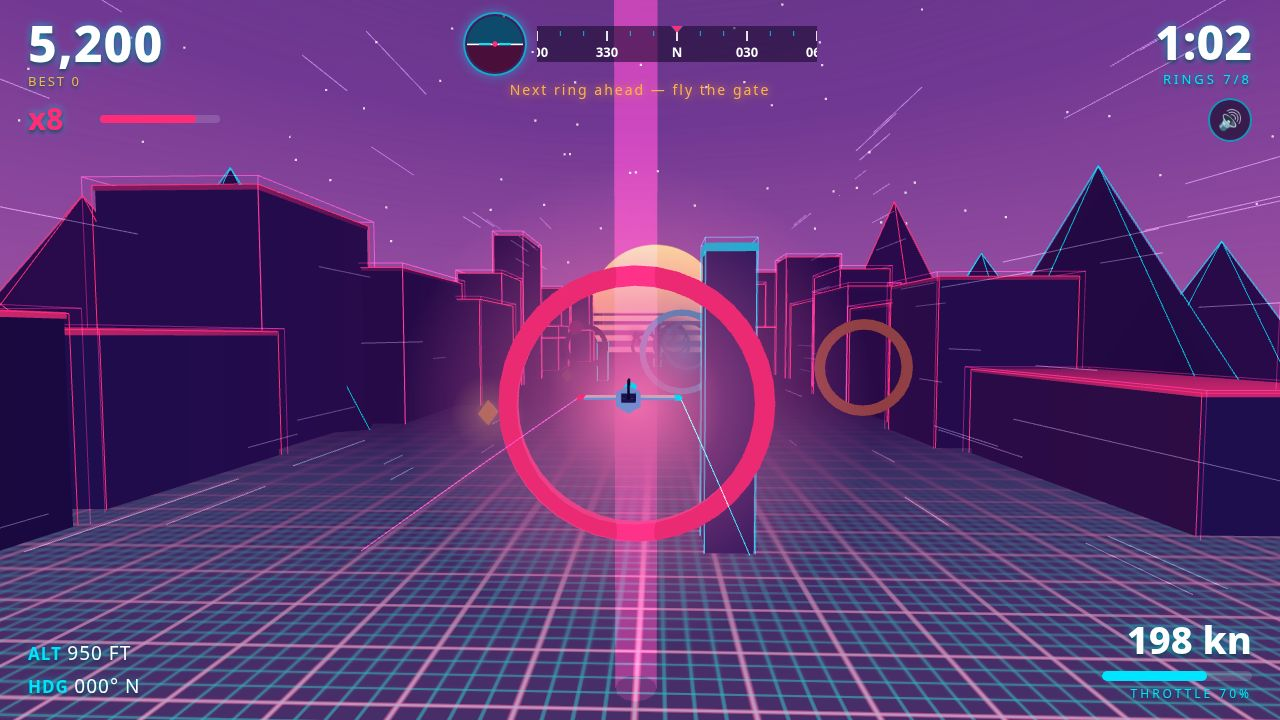
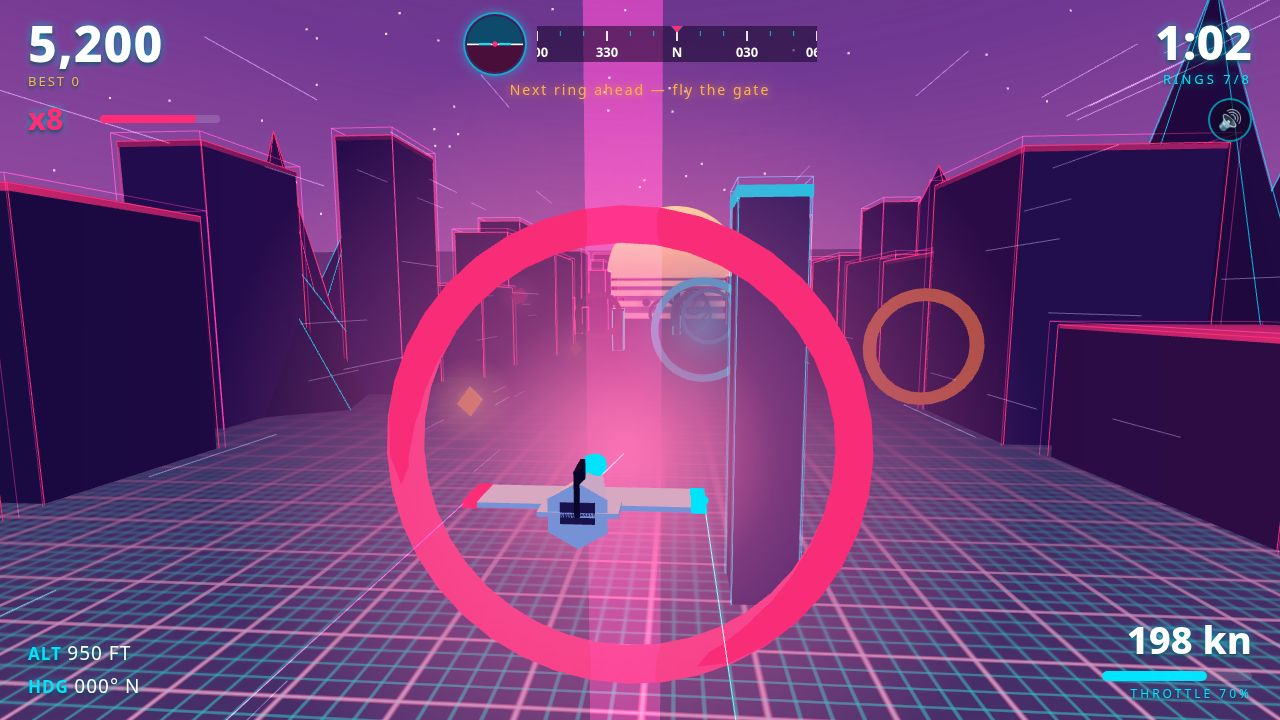
NEON RUSH hero re-stage: snap chase camera in ?shot= frames
The 9a3af2b hero regressed: _camPos starts at (0,24,14), ~630 units
from a hero staged at z=-616, and at headless frame rates the damped
chase camera never catches up before the screenshot, so the ring read
as a faint ~100px circle around the sun and the jet as a speck.
Fix: _snapCamera() (mirrors the live loop's chase target: 14 behind,
4.8 above, 2.2 lean), called at the end of _applyShot, gated on
shot.mode — staged frames only, normal play untouched. Plane now
staged 34 units short of the gate, 25-step pre-sim ends 9 short.
Viewed: ring ~460px wide (~36% of frame) with the jet threading it,
full HUD, runway visible through the gate. 39/39 headless PASS, zero
console errors; main.ts byte-identical x2; index.html 763,245 B.

diff --git a/game/index.html b/game/index.html
@@ -2815,7 +2815,12 @@ console.warn( 'Scripts "build/three.js" and "build/three.min.js" are deprecated 
           this.world.spawnCursor = -2000;
           this.world.missionSpawned = 8;
           this.world._markNextRing();
-          this.plane.pos.set(0, 22, -590);
+          // HERO RE-STAGE: park ~34 units short of the gate (like the
+          // 'ring' shot) so the 25-step pre-sim ends ~11 short — the ring
+          // then spans ~1/3 of the frame width instead of reading as a
+          // faint circle around the sun. Runway threshold (-680) stays
+          // ~30 past the ring, visible on the horizon through it.
+          this.plane.pos.set(0, 22, -616);
         }
       } else {
         // Park the plane just before the next ring for the shot.
@@ -2829,10 +2834,11 @@ console.warn( 'Scripts "build/three.js" and "build/three.min.js" are deprecated 
       // the flight path at the bottom-centre.
       // Pre-simulate a short autopilot flight so the frame is mid-action
       // (ring burst, trails, combo live), then freeze for the screenshot.
-      // Play stops ~40 units short of the hero ring: level approach, ring
-      // in frame but not swallowing the sun, runway past it. Ring stops
-      // ~9 short of the gate so the jet is clearly about to thread it.
-      for (var s = 0; s < (mode === 'play' ? 12 : 25); s++) {
+      // Both play and ring stop ~11 units short of the gate: level
+      // approach, big ring in frame, jet clearly about to thread it,
+      // runway past it. (Play used to stop ~50 short — the ring read as
+      // a faint circle around the sun at thumbnail size.)
+      for (var s = 0; s < 25; s++) {
         this._updatePlaying(1 / 60, this._autopilot());
       }
       this.frozen = true;
@@ -2864,7 +2870,31 @@ console.warn( 'Scripts "build/three.js" and "build/three.min.js" are deprecated 
       this.plane._applyTransform();
       this.hud.showTitle();
     }
+    // Staged frames only: snap the chase camera to the staged plane.
+    // (Normal play never reaches this — shot.mode is empty there — so
+    // the title fly-in is untouched.)
+    if (this.shot.mode) this._snapCamera();
     this._syncHud();
+  };
+
+  // Staged ?shot= frames only: put the chase camera exactly where the
+  // live loop would keep it (14 behind, 4.8 above, slight 3/4 lean).
+  // Without this the camera starts at (0,24,14) — ~630 units from a hero
+  // staged at z=-616 — and at headless frame rates it never catches up
+  // before the screenshot, so the ring reads tiny and the jet a speck.
+  Game.prototype._snapCamera = function () {
+    var heading = this.plane.heading;
+    var backX = Math.sin(heading);
+    var backZ = Math.cos(heading);
+    var rightX = Math.cos(heading);
+    var rightZ = -Math.sin(heading);
+    var lean = 2.2 + this.plane.bank * 1.5;
+    this._camPos.set(
+      this.plane.pos.x + backX * 14 + rightX * lean,
+      this.plane.pos.y + 4.8,
+      this.plane.pos.z + backZ * 14 + rightZ * lean
+    );
+    this.camera.position.copy(this._camPos);
   };
 
   Game.prototype._syncHud = function () {

diff --git a/game/src/main.js b/game/src/main.js
@@ -165,7 +165,12 @@
           this.world.spawnCursor = -2000;
           this.world.missionSpawned = 8;
           this.world._markNextRing();
-          this.plane.pos.set(0, 22, -590);
+          // HERO RE-STAGE: park ~34 units short of the gate (like the
+          // 'ring' shot) so the 25-step pre-sim ends ~11 short — the ring
+          // then spans ~1/3 of the frame width instead of reading as a
+          // faint circle around the sun. Runway threshold (-680) stays
+          // ~30 past the ring, visible on the horizon through it.
+          this.plane.pos.set(0, 22, -616);
         }
       } else {
         // Park the plane just before the next ring for the shot.
@@ -179,10 +184,11 @@
       // the flight path at the bottom-centre.
       // Pre-simulate a short autopilot flight so the frame is mid-action
       // (ring burst, trails, combo live), then freeze for the screenshot.
-      // Play stops ~40 units short of the hero ring: level approach, ring
-      // in frame but not swallowing the sun, runway past it. Ring stops
-      // ~9 short of the gate so the jet is clearly about to thread it.
-      for (var s = 0; s < (mode === 'play' ? 12 : 25); s++) {
+      // Both play and ring stop ~11 units short of the gate: level
+      // approach, big ring in frame, jet clearly about to thread it,
+      // runway past it. (Play used to stop ~50 short — the ring read as
+      // a faint circle around the sun at thumbnail size.)
+      for (var s = 0; s < 25; s++) {
         this._updatePlaying(1 / 60, this._autopilot());
       }
       this.frozen = true;
@@ -214,7 +220,31 @@
       this.plane._applyTransform();
       this.hud.showTitle();
     }
+    // Staged frames only: snap the chase camera to the staged plane.
+    // (Normal play never reaches this — shot.mode is empty there — so
+    // the title fly-in is untouched.)
+    if (this.shot.mode) this._snapCamera();
     this._syncHud();
+  };
+
+  // Staged ?shot= frames only: put the chase camera exactly where the
+  // live loop would keep it (14 behind, 4.8 above, slight 3/4 lean).
+  // Without this the camera starts at (0,24,14) — ~630 units from a hero
+  // staged at z=-616 — and at headless frame rates it never catches up
+  // before the screenshot, so the ring reads tiny and the jet a speck.
+  Game.prototype._snapCamera = function () {
+    var heading = this.plane.heading;
+    var backX = Math.sin(heading);
+    var backZ = Math.cos(heading);
+    var rightX = Math.cos(heading);
+    var rightZ = -Math.sin(heading);
+    var lean = 2.2 + this.plane.bank * 1.5;
+    this._camPos.set(
+      this.plane.pos.x + backX * 14 + rightX * lean,
+      this.plane.pos.y + 4.8,
+      this.plane.pos.z + backZ * 14 + rightZ * lean
+    );
+    this.camera.position.copy(this._camPos);
   };
 
   Game.prototype._syncHud = function () {

diff --git a/BUILD-NOTE.md b/BUILD-NOTE.md
@@ -316,3 +316,93 @@ ring game — the brief-2 goal. No change needed.
   — parent does that after Udin previews + Gas. Resubmit deadline:
   28 Nov 2026 08:57 WITA. Do NOT commit `transcripts.tar.gz`
   (untracked kit-bundle artifact, 716 KB — not part of the repo).
+
+## v3 POLISH PASS (27 Nov ~11:00–11:20 WITA) — commit 9a3af2b
+Review of the v3 hero shot (2-play.jpg) found 4 real issues; all verified
+against the actual screenshot before fixing. Polish only — mission flow,
+flight model, cockpit HUD and all v3 features untouched.
+
+### Fix 1 — HUD too small + score/timer clipped at the edges
+`game/index.template.html`: score 42→50px, timer 40→48px, speed 30→38px,
+alt/hdg 14→19px, missionHint 13→14px; HUD safe insets 16→28px (sides),
+top 14→18px; toast/mute repositioned (see Fix 2). `game/src/hud.js`:
+drawTape canvas 440×56→560×72, label font 20→26px, ticks/caret enlarged.
+Phone sizes bumped too (score 34→40px, timer 32→38px, speed 26→32px,
+alt 12→15px). Verified: score rect [28,220] and timer rect [1155,1252]
+at 1280×720 — fully inside the frame, ≥28px from the edges; same at
+portrait 390×844 and landscape 844×390 (≥4px margins).
+
+### Fix 2 — control hint pill covered the flight path
+Toast moved bottom-centre → top:126px under the cockpit, fainter
+(opacity 0.92), 4600→3000ms at startRun; muteBtn moved to top:98px /
+right:28px. Toast REMOVED from all staged `_applyShot` frames, so the
+hero shot has no pill on the runway/ring line. Test confirms: toast at
+top on start, opacity <0.5 after ~3.6s, flight path clear.
+
+### Fix 3 — buildings still dark, neon outlines not prominent enough
+`game/src/world.js`: wall faces 0x1c0b33/0x2a0f45→0x2f1849/0x3d1f5c,
+tower face 0x241040→0x3a1c60, mountain faces lightened; edge opacities
+→1.0 (walls) / 0.95 (towers) / 0.8 (mountains); plus a second additive
+glow LineSegments (opacity 0.4, scale 1.04–1.05) on walls and towers.
+Viewed: pink/cyan edges now read clearly against the purple sky without
+drowning the scene.
+
+### Fix 4 — hero re-staged: ring + HUD + runway in one frame
+`game/src/main.js`: the 'play' shot is now the late-mission hero —
+rings=7, hero ring moved to (0,20,−650), plane parked (0,22,−590),
+other rings deactivated, spawnCursor=−2000, missionSpawned=8, 12-step
+pre-sim. One frame shows the hero gate dead ahead, the full cockpit HUD
+(score 2,450, timer 1:02, RINGS 7/8, tape, horizon, 189 kn), and the
+runway glowing on the horizon past the ring (threshold −680). Viewed at
+full size and reads at thumbnail size. shots.json labels updated to the
+v3 reality (was: stale v1 "combo x9 / rank A / 8,740 points").
+
+### Retest — v3-fix suite `tmp/test-neon-v3fix.mjs` (CDP, Chrome 158)
+**39/39 PASS, zero console errors** (desktop 1280×720 + portrait
+390×844 + landscape 844×390): HUD sizes, no clipping, toast top +
+faded, clock advances, plane flies, A steers, ring pass scores, combo
+shows, tower crash −5s, PERFECT landing → MISSION COMPLETE, R replay,
+timer expiry → RUN OVER, P pause/resume, DPR capped at 2 (emulated
+DSF 3). Two test-assertion fixes, not game bugs: the mission timer
+cannot be asserted to fall monotonically (straight flight threads +1s
+pickups, so it often rises net — verified in a debug run), and the
+timer-expiry test parks the plane at y=80 clear of pickups.
+Screenshots re-shot with `tmp/shots-neon-v3fix.mjs` (deterministic
+?shot= modes, 1280×720, JPEG q80): 1-ring.jpg 124,997 B sha
+52f5b998…f4; 2-play.jpg 109,104 B sha 44ddabb1…da2; 3-start.jpg 60,733 B
+sha 43dd7262…31; 4-end.jpg 74,118 B sha ed1fb40f…45 (all ≤256 KiB).
+`main.ts` run twice: **byte-identical**. Regenerated index.html
+**761,783 B** (< 1 MiB cap), 0 `<script src>`.
+Commit 9a3af2b "NEON RUSH v3 polish: bigger HUD, safe margins, top
+toast, brighter neon", pushed 2b1618f..9a3af2b. Dev scripts live in
+`tmp/` (untracked, kept out of the repo like /tmp before — but durable
+in the workdir now, since /tmp is wiped on restart).
+Pages check: at push +2 min the Pages edge still served the OLD build
+(759,434 B, Last-Modified 02:17:25 UTC, 0 polish markers,
+Cache-Control max-age=600) — re-check after the cache clears.
+Live-link phone-style test (title → tap FLY → starts immediately) and
+the make.fun bundle/check/submit are for the parent after Udin previews
++ Gas. Resubmit deadline: 28 Nov 2026 08:57 WITA. Do NOT commit
+`transcripts.tar.gz` (untracked kit-bundle artifact — not part of the
+repo).
+
+## HERO RE-STAGE (27 Nov ~11:20–11:35 WITA) — parent review of the polish hero
+The 9a3af2b hero (2-play.jpg) regressed: the ring read as a faint ~100px
+circle around the sun and the jet as a speck — "empty purple city with a
+sun" at thumbnail size, worse than the v3 hero. Root cause, found by
+measuring: `_camPos` starts at (0,24,14), ~630 units from a hero staged at
+z=-616, and at headless frame rates the damped chase camera (lambda 5.5)
+never catches up before the screenshot — so the ring sat ~100+ units from
+the camera. Moving the plane closer (z=-590 → -616, 25-step pre-sim,
+ending 9 units short of the gate) alone did NOT fix it.
+Fix (`game/src/main.js` only): new `Game.prototype._snapCamera()` mirrors
+the live loop's chase target (14 behind, 4.8 above, 2.2 lean) and is called
+at the end of `_applyShot`, gated on `this.shot.mode` — staged frames only,
+normal play (including the title fly-in) untouched. Viewed new 2-play.jpg:
+big bright-pink ring ~460px wide (~36% of frame width) with the jet clearly
+threading it, full HUD (2,450 / 1:02 / RINGS 7/8 / x5 / tape / horizon /
+198 kn / throttle 70%), sun behind the ring, runway dashes visible through
+the gate, hint text at top. 1-ring/3-start/4-end re-shot and viewed — all
+as intended. Retest: v3-fix suite **39/39 PASS, zero console errors**
+(desktop + portrait + landscape). `main.ts` twice: **byte-identical**.
+Regenerated index.html **763,245 B** (< 1 MiB cap), 0 `<script src>`.
